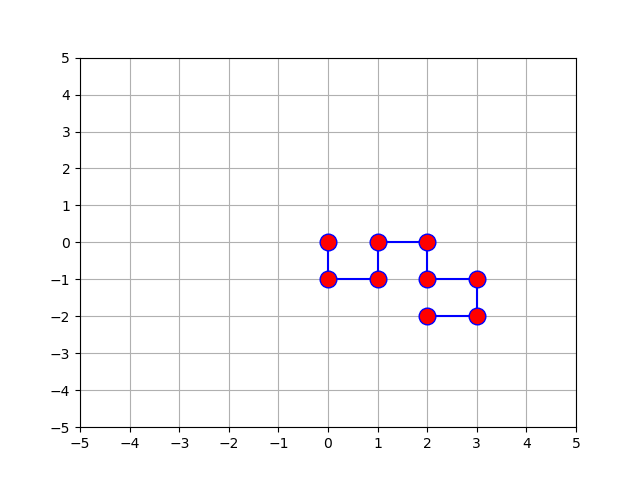
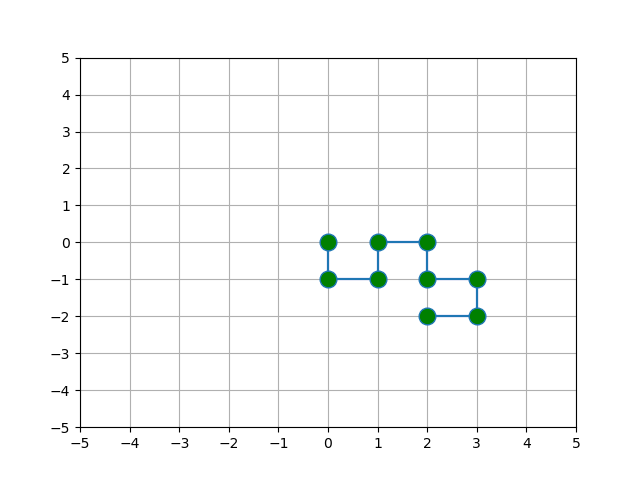
path zonder coordinaten

diff --git a/eiwitten/path.py b/eiwitten/path.py
@@ -3,68 +3,76 @@ import matplotlib.patches as mpatches
 import matplotlib.pyplot as plt
 import matplotlib.ticker as ticker
 from field import Field
+from protein import Protein
 
+class Path(object):
+    """Visualises the structure of optimal protein fold"""
+    def __init__(self, protein, axislength, coordinates):
+        self.protein = protein
+        self.axislength = axislength
+        self.datapoints = coordinates
 
+    def getMarker():
+        """Returns a marker with color based on the aminoacid"""
+        return 'red'
 
+        # self.path_dict = {}
 
+    def plotFold(self):
 
+        print('this is the protein sequence')
+        print(self.protein)
+        print('this is the axislength')
+        print(self.axislength)
+        # plot figure with size 1:1 with 100 dots per inches
+        plt.figure(figsize=(1, 1), dpi=100)
+        fig, ax = plt.subplots()
 
-def __init__(self, protein):
-    self.length = len(protein)
+        # use the protein length to plot graph dimensions
+        x_L = self.axislength * -0.5
+        x_R = self.axislength * 0.5
+        y_L = self.axislength * -0.5
+        y_R = self.axislength * 0.5
+        ax.axis([x_L, x_R, y_L, y_R])
 
+        # place the folding coordinates of the field in a list
+        list_path_data = [
+            (mpath.Path.MOVETO, (0, 0)),
+            (mpath.Path.LINETO, (0, -1)),
 
+            ]
 
-def getMarkerColor(self, path_dict):
+        # coordinates of the aminoacids: placeholder testlist
+        testlist = [(1, -1), (1, 0), (2, 0), (2, -1), (3, -1), (3, -2), (2, -2)]
+        testdict = {(1, -1): 'H', (1, 0): 'H', (2, 0): 'P', (2, -1): 'H', (3, -1): 'H',\
+                    (3, -2): 'H', (2, -2): 'H'}
 
+        # place the code + coordinates in the list
+        for i in testlist:
+            list_path_data.extend([(mpath.Path.LINETO, i)])
+        print(list_path_data)
 
-def plotFold(self):
-    # plot figure with size 1:1 with 100 dots per inches
-    plt.figure(figsize=(1, 1), dpi=100)
-    fig, ax = plt.subplots()
+        # use the list for plotting the fold
+        codes, verts = zip(*list_path_data)
+        list_path = mpath.Path(verts, codes)
 
-    x_L = -5
-    x_R = 5
-    y_L = -5
-    y_R = 5
-    ax.axis([x_L, x_R, y_L, y_R])
+        # plot control points and connecting lines
+        x, y = zip(*list_path.vertices)
 
-    list_path_data = [
-        (mpath.Path.MOVETO, (0, 0)),
-        (mpath.Path.LINETO, (0, -1)),
+        # plot line and markers
+        line, = ax.plot(x, y, color='blue', linestyle='solid')
+        marker, = ax.plot(x, y, marker= 'o', markerfacecolor=getMarker(), markersize=12)
 
-        ]
+        # import itertools
+        # marker = itertools.cycle((',', '+', '.', 'o', '*'))
+        # for n in y:
+        #     plt.plot(x,n, marker = next(marker), linestyle='')
 
-    testlist = [(1, -1), (1, 0), (2, 0), (2, -1), (3, -1), (3, -2), (2, -2)]
-    testdict = {(1, -1): 'H', (1, 0): 'H', (2, 0): 'P', (2, -1): 'H', (3, -1): 'H',\
-                (3, -2): 'H', (2, -2): 'H'}
+        # plot a grid for better visualisation
+        gridline_space = 1.0
+        ax.xaxis.set_major_locator(ticker.MultipleLocator(gridline_space))
+        ax.yaxis.set_major_locator(ticker.MultipleLocator(gridline_space))
+        ax.grid()
 
-
-    for i in testlist:
-        list_path_data.extend([(mpath.Path.LINETO, i)])
-    print(list_path_data)
-
-    codes, verts = zip(*list_path_data)
-    list_path = mpath.Path(verts, codes)
-
-
-    # plot control points and connecting lines
-    x, y = zip(*list_path.vertices)
-
-    # color hangt af van aminozuur, placeholder = red
-    # for j in testdict:
-    #     if j == 'H':
-    #         color = 'red'
-    #     elif j == 'P':
-    #         color = 'blue'
-    #     elif j == 'C':
-    #         color = 'yellow'
-
-    color = 'red'
-    line, = ax.plot(x, y, color='blue', linestyle='solid', marker='o', markerfacecolor=color, markersize=12)
-
-    gridline_space = 1.0
-    ax.xaxis.set_major_locator(ticker.MultipleLocator(gridline_space))
-    ax.yaxis.set_major_locator(ticker.MultipleLocator(gridline_space))
-    ax.grid()
-
-    plt.savefig("out.png")
+        plt.savefig("out.png")
+        

diff --git a/eiwitten/field.py b/eiwitten/field.py
@@ -8,6 +8,7 @@ class Field(object):
         self.right_ways = {'[0, 1]': [1,0], '[0, -1]': [-1,0], '[1, 0]': [0,-1], '[-1, 0]': [0,1]}
         self.left_ways = {'[0, 1]': [-1,0], '[0, -1]': [1,0], '[1, 0]': [0,1], '[-1, 0]': [0,-1]}
         self.forward_ways = {'[0, 1]': [0,1], '[0, -1]': [0,-1], '[1, 0]': [1,0], '[-1, 0]': [-1,0]}
+        self.coordinates = []
 
     """Fills field based on current option"""
     def fill_field(self, sequence, option):
@@ -25,6 +26,8 @@ class Field(object):
                    x = x + new_direction[1]
                    self.field[y][x] = aminoacid
                    self.last_step = str(new_direction)
+                   # trying out coordinates
+                   self.coordinates.extend(self.field[x][y])
                else:
                    return False
            elif direction == "forward":
@@ -34,6 +37,8 @@ class Field(object):
                    x = x + new_direction[1]
                    self.field[y][x] = aminoacid
                    self.last_step = str(new_direction)
+                   # trying out coordinates
+                   self.coordinates.extend(self.field[x][y])
                else:
                    return False
            elif direction == "left":
@@ -44,6 +49,8 @@ class Field(object):
                    self.field[y][x] = aminoacid
 
                    self.last_step = str(new_direction)
+                   # trying out coordinates
+                   self.coordinates.extend(self.field[x][y])
                else:
                    return False
         return True
@@ -52,3 +59,5 @@ class Field(object):
         for x in range(len(self.field)):
             for y in range(len(self.field)):
                 self.field[y][x] = "_"
+        # trying out coordinates
+        self.coordinates = []

diff --git a/eiwitten/versie0.py b/eiwitten/versie0.py
@@ -2,7 +2,12 @@ from sys import argv
 from protein import Protein
 from option import Option
 from field import Field
+# from path import Path
 import time
+import matplotlib.path as mpath
+import matplotlib.patches as mpatches
+import matplotlib.pyplot as plt
+import matplotlib.ticker as ticker
 from copy import deepcopy
 
 def main():
@@ -50,11 +55,15 @@ def main():
     # prints best_fold_points and best_fold and current field
     field.fill_field(protein.sequence, ways[-1])
     print(fold_points(field) - protein.errorpoint)
-    print(ways[-1])
+    print(field.coordinates)
+    # print(ways[-1])
     for line in field.field:
         print(line)
     end = time.time()
     print(end - start)
+
+    # # start visualisation
+    # path.plotFold(protein.sequence, protein.length, field.coordinates)
 
 # checks user input
 def check():
